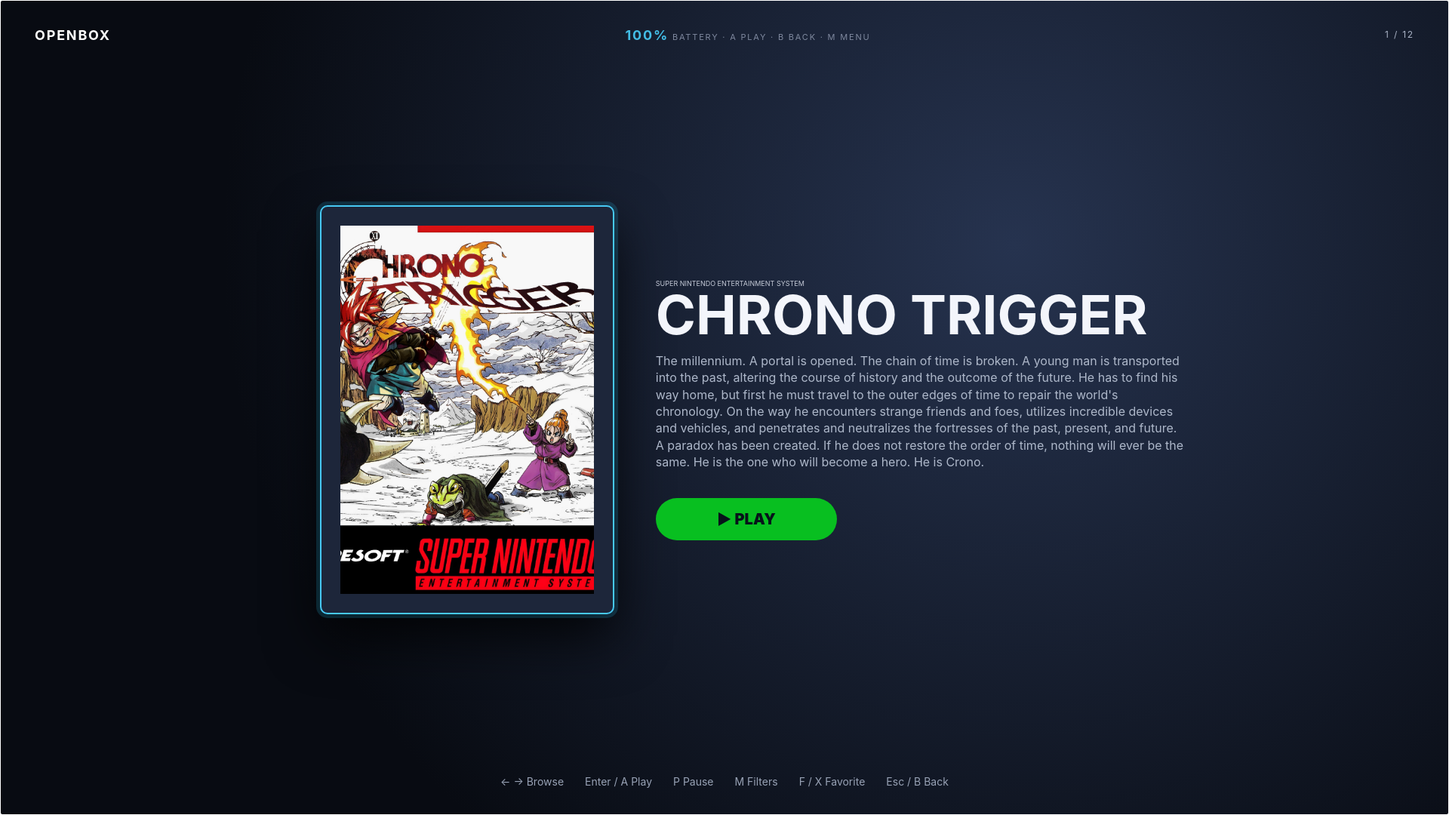
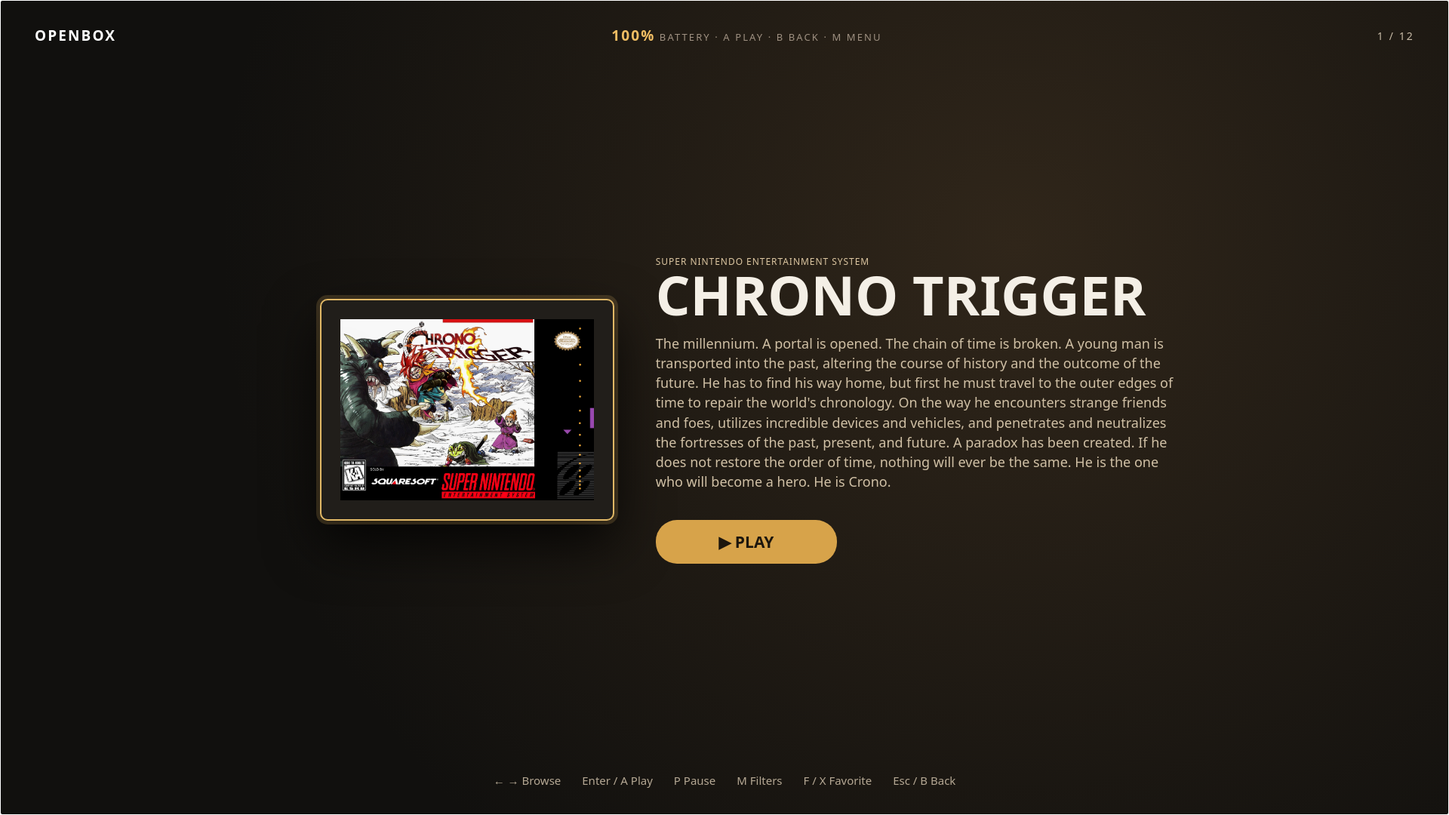
docs: match native window UI; refresh screenshots
- Replace stale screenshots with new native-window captures
  (library grid with grouped covers, game detail with full metadata,
  fullscreen Big Box)
- Reframe default-launch text from browser tab to native WebKitGTK
  window; document --web fallback and chrome-less app window ladder
- Remove Tk references (deleted in 1.0.0); themes now cover the shared
  UI; describe the three-zone topbar (Library / Actions / Tools)
- Update schema-version references to v5 and the v4->v5 ui_state
  migration; document native folder dialogs via the openboxNative bridge
- CLI/install/troubleshooting wording now covers both native and web
  entry points

diff --git a/content/docs/interfaces-and-data.md b/content/docs/interfaces-and-data.md
@@ -3,28 +3,32 @@ title: Interfaces and data
 description: Understand OpenBoxGL interfaces, local state, and environment selection.
 ---
 
-OpenBoxGL ships two interfaces that share one local library. This page explains what you see, how the pieces fit together, and exactly where your data lives so you can back it up, move it, or diagnose problems.
+OpenBoxGL ships one UI over two hosts that share one local library. This page explains what you see, how the pieces fit together, and exactly where your data lives so you can back it up, move it, or diagnose problems.
 
-## The two interfaces
+## One UI, two hosts
 
-| Interface | Entry point | What you see | Best for |
+| Host | Entry point | What you see | Best for |
 | --- | --- | --- | --- |
-| Web UI | `python3 web_app.py` or `openbox` | A chrome-less app window by default (falls back to your browser) with a three-column workspace: filter sidebar, cover grid or list, detail pane | Full feature set, REST API, Big Box mode |
-| Native UI | `python3 openbox.py` or `openbox-native` | A regular Tk desktop window with the same library | Lightweight desktop use |
+| Native window | `openbox` or `openbox-native` | A native WebKitGTK window rendering the same three-column workspace: filter sidebar, cover grid or list, detail pane | Default desktop use |
+| Web UI | `openbox --web` or `python3 web_app.py` | The same UI in a chrome-less app window (falls back to your browser) | Development, debugging, REST API, Big Box mode |
+
+Both hosts render the identical `index.html`, `app.js`, and `app.css` served by the loopback server, so there is no second presentation stack to drift. The native host is a small C shim that owns the window chrome and spawns the Python server as a child; it never contains application logic.
+
+### Native host
+
+Starting `openbox` (or `openbox-native`) does three things in order:
+
+1. Acquires a single-instance lock; a second launch focuses the existing window and exits.
+2. Spawns `web_app.py --no-browser` as a child and waits for it to write `server.port` and `server.token`.
+3. Opens a WebKitGTK window at `http://127.0.0.1:PORT/?token=...`, restores the last window geometry, and registers a `window.openboxNative` bridge for native dialogs, external opens, reveal, and window chrome.
+
+On window close the host shuts the server down cleanly. When WebKitGTK is missing, the launcher prints an install hint and falls back to the system-browser app window, so no install bricks.
 
 ### Web UI
 
-Starting the Web UI does three things in order:
+Running `python3 web_app.py` starts the loopback server directly and opens the same UI in a chrome-less app window (falling back to the default browser). Pass `--no-browser` to drive the API yourself.
 
-1. Bootstraps the environment and configures the diagnostic log in the data directory.
-2. Loads and normalizes the library state (running migrations if the schema is older), starts a `ThreadingHTTPServer` bound to `127.0.0.1` on a random port, and writes `server.port` and `server.token` into the data directory.
-3. Prints `http://127.0.0.1:PORT/?token=...` and opens it in your browser, unless `--no-browser` is passed.
-
-The server is loopback-only, so nothing is reachable from the network. The URL carries the per-launch token in the query string; the API also accepts the same value as an `X-OpenBox-Token` header. When the server stops, both files are deleted. A second instance therefore gets a fresh token and port, and the files are shared between interfaces: the keyboard launcher (`scripts/openbox-launcher.sh`) and `openbox://` deep links read these two files to find and authenticate against the running server. See [Command line and deep links](/reference/cli/) for the full flag and URI reference.
-
-### Native UI
-
-The Tk window opens the same `library.json` with the same grid, search, filters, and launch profiles, minus the browser surface. Both processes coordinate writes through a file lock, so running the Web UI and the native UI against the same library at the same time is safe; the last writer wins per transaction, not per file.
+The server is loopback-only, so nothing is reachable from the network. The URL carries the per-launch token in the query string; the API also accepts the same value as an `X-OpenBox-Token` header. When the server stops, both files are deleted. The keyboard launcher (`scripts/openbox-launcher.sh`) and `openbox://` deep links read these two files to find and authenticate against the running server. See [Command line and deep links](/reference/cli/) for the full flag and URI reference.
 
 ## Where data lives
 
@@ -35,8 +39,8 @@ The default data directory is `~/.local/share/openbox-game-launcher`. Everything
 | `library.json` | The library: games, profiles, history, settings, playlists, queue, notifications |
 | `library.json.bak` | Last-known-good copy, rewritten before every commit |
 | `.library.json.lock` | Cross-process lock file coordinating concurrent writes |
-| `server.token`, `server.port` | Per-launch credentials for the running Web UI; deleted on exit |
-| `openbox.log` (+ `.1`...`.4`) | Rotating diagnostic log with secrets redacted |
+| `server.token`, `server.port` | Per-launch credentials for the running app; deleted on exit |
+| `native-host.lock`, `window-geometry`, `native-host-flags` | Native host single-instance lock, last window geometry, and tray flags |
 | `backups/` | Library backup archives (`OpenBoxBackup-*.zip`) |
 | `save-backups/` | Versioned per-game save backups with retention limits |
 | `media/` | Downloaded artwork, screenshots, video, and metadata media, grouped by source |

diff --git a/content/docs/reference/cli.md b/content/docs/reference/cli.md
@@ -6,17 +6,17 @@ sidebar: false
 
 # Command line and deep links
 
-OpenBox is a local app, so the command line is a first-class surface. This page covers every flag the web UI entry point accepts and the `openbox://` URI scheme you can use to drive a running instance.
+OpenBox is a local app, so the command line is a first-class surface. This page covers every flag the app entry point accepts and the `openbox://` URI scheme you can use to drive a running instance.
 
 ## Entry points
 
 | Command | What it starts |
 | --- | --- |
-| `openbox` | The web UI (`python3 web_app.py` equivalent) |
-| `openbox-native` | The lightweight Tk interface (`python3 openbox.py`) |
-| `openbox --native` | The AppImage launches the Tk interface instead of the web UI |
+| `openbox` | The native window (default) |
+| `openbox-native` | The native window (the same host) |
+| `openbox --web` | The loopback web UI in a browser (development) |
 
-The web UI is the full-featured interface. Flags below apply to it unless noted.
+The native window renders the same UI as the web fallback; both serve `index.html` over the loopback server. Flags below apply to the app entry point unless noted.
 
 ## Flags
 
@@ -28,18 +28,18 @@ The web UI is the full-featured interface. Flags below apply to it unless noted.
 | `--launcher` | Open the rofi/wofi/dmenu keyboard launcher against the running instance and exit. |
 | `--backup [--items a,b] [--keep N]` | Create a library backup from the command line. Default items are `library,settings`. Prints the archive path. |
 | `--restore-backup <archive>` | Restore a backup archive. The archive must be a real `.zip` inside the data directory or `backups/`. Prints the restored item names. |
-| `--native` | AppImage only: launch the Tk interface instead of the web UI. |
+| `--web` | Start the loopback web UI in a browser instead of the native window (development). |
 
 `--backup` and `--restore-backup` act on the library before the server starts, so they work even when no instance is running. They read `OPENBOX_DATA_DIR` from the environment, like every startup path.
 
 ## Deep links
 
-`openbox://` URIs address a running OpenBox web UI. The parser rejects foreign hosts and fails cleanly when no server port is known, so a dead link never silently hits the wrong process.
+`openbox://` URIs address a running OpenBox instance. The parser rejects foreign hosts and fails cleanly when no server port is known, so a dead link never silently hits the wrong process.
 
 | URI | Action |
 | --- | --- |
 | `openbox://start` | Open the running UI in the browser. A no-op if the server is already up. |
-| `openbox://search/<query>` | Open the web UI with the search field prefilled for `<query>`. |
+| `openbox://search/<query>` | Open the UI with the search field prefilled for `<query>`. |
 | `openbox://showgame/<id>` (alias `game`) | Open the detail pane for a game by stable id. |
 | `openbox://launch/<id>` | Launch a game by stable id. |
 | `openbox://bigbox` (alias `fullscreen`) | Switch the running UI to Big Box mode. |
@@ -52,7 +52,7 @@ openbox --uri "openbox://search/chrono"
 openbox --uri "openbox://launch/1234"
 ```
 
-`--uri` dispatches against the running server using the token and port files, or boots a server if none is running. The same actions exist as `?deeplink=` query parameters on the web UI URL (`?deeplink=bigbox`, `?deeplink=search&q=chrono`).
+`--uri` dispatches against the running server using the token and port files, or boots a server if none is running. The same actions exist as `?deeplink=` query parameters on the UI URL (`?deeplink=bigbox`, `?deeplink=search&q=chrono`).
 
 ## Keyboard launcher
 
@@ -66,7 +66,7 @@ openbox --launcher
 scripts/openbox-launcher.sh rofi
 ```
 
-The launcher reads `server.port` and `server.token` from the data directory, so it only works while the web UI is running. Bind a hotkey to `openbox --launcher` for a launch-anything menu.
+The launcher reads `server.port` and `server.token` from the data directory, so it only works while OpenBox is running. Bind a hotkey to `openbox --launcher` for a launch-anything menu.
 
 ## Related pages
 

diff --git a/content/docs/guides/troubleshooting/startup-and-browser/index.md b/content/docs/guides/troubleshooting/startup-and-browser/index.md
@@ -1,16 +1,17 @@
 ---
-title: Troubleshooting startup and browser
-description: Diagnose why the app does not start or the browser does not open.
+title: Troubleshooting startup and window
+description: Diagnose why the app does not start or the window does not open.
 ---
 
 Start with the diagnostic log and the exact visible error. **Settings** has **Copy diagnostic log**: it copies the rotating log (`<data-dir>/openbox.log`, 2 MiB per file, 4 rotations) which redacts tokens, passwords, secrets, API keys, and authorization values, but may include game names and local file paths. Review it before sharing.
 
-## The browser did not open
+## The window did not open
 
-The Web UI binds to `127.0.0.1` on a random port. The port and token are written to `<data-dir>/server.port` and `<data-dir>/server.token`; the URL is printed to the terminal. If the browser shows "Could not reach the OpenBox server", check that `web_app.py` is still running.
+The native window renders the same UI as the web UI; both are served by the loopback server on `127.0.0.1` at a random port. The port and token are written to `<data-dir>/server.port` and `<data-dir>/server.token`. If the native window shows "Could not reach the OpenBox server", the server child did not start or exited; run `openbox` from a terminal to read the error.
 
-- Run the entry point from a terminal and open the printed URL yourself: `http://127.0.0.1:PORT/?token=...`
-- `--no-browser` skips opening a browser; useful for remote or scripted starts.
+- When WebKitGTK is missing, `openbox` prints an install hint and falls back to a chrome-less app window (then your default browser). Install `libwebkit2gtk-4.1-dev` (Debian/Ubuntu) or `webkit2gtk-4.1` (Fedora) for the native window.
+- `openbox --web` forces the loopback web UI in a browser instead of the native window.
+- `python3 web_app.py --no-browser` starts the server without opening any window; open the printed `http://127.0.0.1:PORT/?token=...` URL yourself.
 
 ## Nothing starts at all
 
@@ -21,7 +22,7 @@ The Web UI binds to `127.0.0.1` on a random port. The port and token are written
 | Flatpak fails to find files | The Flatpak uses the FreeDesktop runtime and grants `--filesystem=home`; keep Steam/Heroic/Lutris/ROM folders under home. |
 | Kiosk browser not opening in Game Mode | The UI opens in a kiosk browser (Chromium, Chrome, Brave, Edge; native or Flatpak). If none is installed the fallback may fail; install one. Prefer the AppImage in Game Mode since the Flatpak relies on host tools for window tagging. |
 
-## Browser opens but the library looks empty
+## Window opens but the library looks empty
 
 Check `OPENBOX_DATA_DIR`. The server is reading a different directory than the one you edited. The variable must be in the process environment at launch — putting it inside a discovered `.env` file is too late.
 

diff --git a/content/docs/guides/library/index.md b/content/docs/guides/library/index.md
@@ -3,7 +3,7 @@ title: Library overview
 description: Browse, search, and safely maintain a mixed Linux game library.
 ---
 
-OpenBoxGL presents imported games in a searchable grid or list. Select a card to open its detail pane, where metadata, artwork, launch, saves, and history stay together. The Web UI keeps one top bar of actions: **Library**, **Add Game**, **Import Folder**, **Import Steam**, **Import Heroic**, **Import Lutris**, **Import Arcade**, **Emulators**, **Settings**, **Big Box**, **Running**, **History**, **Themes**, **Save Filter**, **Save Preset**, **Playlists**, **Achievements**, **Plugins**, **Discovery**, **Storefronts**, **Media**, **Health**, **Bulk Edit**, **Backup**, **Fullscreen**, **Queue**, **Tags**, **Notifications**, and **Webhooks**.
+OpenBoxGL presents imported games in a searchable grid or list. Select a card to open its detail pane, where metadata, artwork, launch, saves, and history stay together. The top bar is grouped into three zones. The **Library** zone holds **Library**, **Add Game**, and **Import Folder**. The **Actions** zone holds **Big Box**, **Running**, and **Queue**. The **Tools** menu holds the rest: **Import Steam**, **Import Heroic**, **Import Lutris**, **Import Arcade**, **Emulators**, **Settings**, **History**, **Themes**, **Save Filter**, **Save Preset**, **Playlists**, **Achievements**, **Plugins**, **Discovery**, **Storefronts**, **Media**, **Health**, **Bulk Edit**, **Backup**, **Fullscreen**, **Tags**, **Notifications**, and **Webhooks**.
 
 <Callout type="tip" title="Why the library never gets broken by reordering">
 
@@ -47,4 +47,4 @@ Removing a game asks twice: first to confirm the library entry removal, then whe
 
 ## Source and status
 
-Capability status belongs to the [parity matrix](/reference/parity/), maintained from `PARITY.md`. Library data lives in `~/.local/share/openbox-game-launcher/library.json` unless `OPENBOX_DATA_DIR` points elsewhere. State is schema version 4, written atomically with a `.bak` last-known-good copy beside it; recovery is covered in [Data and recovery](/reference/data-and-recovery/).
+Capability status belongs to the [parity matrix](/reference/parity/), maintained from `PARITY.md`. Library data lives in `~/.local/share/openbox-game-launcher/library.json` unless `OPENBOX_DATA_DIR` points elsewhere. State is schema version 5, written atomically with a `.bak` last-known-good copy beside it; recovery is covered in [Data and recovery](/reference/data-and-recovery/).

diff --git a/content/docs/guides/troubleshooting/index.md b/content/docs/guides/troubleshooting/index.md
@@ -7,7 +7,7 @@ Start with the diagnostic log and the exact visible error. **Settings** has **Co
 
 ## Startup and browser issues
 
-- The Web UI binds to `127.0.0.1` on a random port. The port and token are written to `<data-dir>/server.port` and `<data-dir>/server.token`; the URL is printed to the terminal. If the browser shows "Could not reach the OpenBox server", check that `web_app.py` is still running.
+- The server binds to `127.0.0.1` on a random port. The port and token are written to `<data-dir>/server.port` and `<data-dir>/server.token`; the URL is printed to the terminal. If the window shows "Could not reach the OpenBox server", check that the server process is still running. In `--web` mode, the same message in the browser has the same cause.
 - `--no-browser` skips opening a browser; useful for remote or scripted starts. `OPENBOX_DATA_DIR` must be set before launch to change the data directory.
 - On Steam Deck / Bazzite Game Mode, the UI opens in a kiosk browser (Chromium, Chrome, Brave, Edge; native or Flatpak). If no kiosk browser is installed the fallback may fail; install one of them. Prefer the AppImage build in Game Mode, since the Flatpak build relies on host tools for window tagging.
 - If an older AppImage build opened but never showed a window after desktop integration, install v0.6.0 or newer, remove the old menu entry, and re-add the AppImage.
@@ -34,7 +34,7 @@ Start with the diagnostic log and the exact visible error. **Settings** has **Co
 
 ## State recovery
 
-- Library state is `library.json` (schema version 4) with a `.bak` last-known-good copy and a `.lock` file beside it. Writes are atomic and owner-only.
+- Library state is `library.json` (schema version 5) with a `.bak` last-known-good copy and a `.lock` file beside it. Writes are atomic and owner-only.
 - If the primary file cannot be read, operations return 503 with "OpenBox library data needs recovery"; the original file is preserved, never overwritten. Recovery loads the `.bak` file, normalizes it, and writes it back. If the backup is also unusable, recovery fails with a clear error.
 - Back up the data directory before manual intervention: copy `library.json` and `library.json.bak` together.
 - Stable game IDs (`game-<hex>`) survive reordering; legacy index-suffixed IDs are kept as aliases (`legacy_game_ids`).

diff --git a/content/docs/guides/library/organizing/index.md b/content/docs/guides/library/organizing/index.md
@@ -25,7 +25,7 @@ Open the **Playlists** dialog for **New manual playlist** and **New filter playl
 
 The **Edit metadata** dialog covers name, platform, genre, year, developer, publisher, series, region, play mode, sort title, progress, ESRB, rating (0 to 5, step 0.5), max players, Wikipedia and video URLs, alternate names, video snap/theme/trailer/recording paths, game path, cover/background/video/music paths, controller support, disc count, extended artwork (clear logo, fanart, banner, icon, box back, box spine, 3D box, title screen), screenshots, RetroAchievements Game ID, launch command override, launch profile override, archive extraction, Big Box hide, hidden, broken, portable, archive member, applications, alternate versions, documents, save paths, description, and private notes.
 
-`collection` is a separate grouping field populated by imports (Steam, Heroic, Lutris, Gameyfin, Arcade, Xbox 360) and shown and filtered in the native Tk UI. It feeds the **Related Games** scorer (two games with the same `collection` score higher). The Web UI does not currently expose an editable `collection` control or a `collection:` search term, so its value is set by imports and surfaced through related-game reasons rather than by hand in the browser.
+`collection` is a separate grouping field populated by imports (Steam, Heroic, Lutris, Gameyfin, Arcade, Xbox 360) and shown and filtered in the native window. It feeds the **Related Games** scorer (two games with the same `collection` score higher). The UI does not currently expose an editable `collection` control or a `collection:` search term, so its value is set by imports and surfaced through related-game reasons rather than by hand.
 
 Custom fields are defined in Settings as `Name|Option1,Option2` lines (up to 20 fields, 50 options each). They appear as editable values on each game and can be bulk-applied.
 

diff --git a/content/docs/reference/data-and-recovery.md b/content/docs/reference/data-and-recovery.md
@@ -1,6 +1,6 @@
 ---
 title: Data and recovery
-description: Understand schema version 4 state files and recovery behavior.
+description: Understand schema version 5 state files and recovery behavior.
 ---
 
 The library is one schema-versioned JSON file with a last-known-good sidecar, cross-process locking, and atomic owner-only writes. This page documents the exact layout, the migration path, stable IDs, caps, and recovery.
@@ -30,15 +30,16 @@ Every read and write happens under the file lock, so two OpenBoxGL processes (We
 
 ## Schema versions and migration
 
-The current schema is version 4 (`STATE_SCHEMA_VERSION`). Older files migrate in place on load:
+The current schema is version 5 (`STATE_SCHEMA_VERSION`). Older files migrate in place on load:
 
 | From | Migration |
 | --- | --- |
 | v1 (bare game list) | Wrapped into a state object, gains `profiles`, `history`, `settings`, `playlists` |
 | v2 | Index-suffixed IDs (`game-<24 hex>-<n>`) are replaced by stable IDs; the old ID moves into `legacy_game_ids` as an alias |
 | v3 | Gains `queue` and `notifications`, capped at 500 and 200 entries; non-list game `tags` become `[]` |
+| v4 | Gains the host-owned `ui_state` block (window geometry and native-host preferences); games, settings, playlists, and history are unchanged |
 
-Unknown fields survive migration; only known collections are normalized. A schema version above 4, below 1, or with no migration available raises `StateCorruptError` instead of guessing. A complete v4 object takes a fast path without normalization.
+Unknown fields survive migration; only known collections are normalized. A schema version above 5, below 1, or with no migration available raises `StateCorruptError` instead of guessing. A complete v5 object takes a fast path without normalization.
 
 ## Stable game IDs
 

diff --git a/content/docs/changelog.md b/content/docs/changelog.md
@@ -6,9 +6,17 @@ sidebar: false
 
 # Changelog
 
-OpenBox follows [Keep a Changelog](https://keepachangelog.com/en/1.1.0/) and [Semantic Versioning](https://semver.org/spec/v2.0.0.html). The full file lives in the repository at [`CHANGELOG.md`](https://github.com/vindeckyy/OpenBoxGL/blob/master/CHANGELOG.md). These are the highlights.
+## 1.0.0 (2026-08-13)
+
+**Native-first**
+
+- OpenBox now opens in a native WebKitGTK window by default, rendering the same library UI as the web app instead of a browser tab or the removed Tk interface. The native host owns server lifecycle, single instance, window geometry, minimize-to-tray, and a fallback to the system-browser app window when WebKitGTK is missing.
+- Batch metadata auto-match binds every unmatched game whose title exactly matches the LaunchBox Games Database in one action, instead of matching one game at a time. Only exact normalized-title hits qualify; ambiguous titles are left unmatched.
+- The topbar regroups into Library, Actions, and Tools zones; session and job events stream over Server-Sent Events with polling kept as a fallback.
+- The `ui_window` app/browser split is removed; native is the default and `--web`/`--app-window` remain for contributors.
 
 ## 0.9.0 (2026-08-12)
+
 
 **LaunchBox media catalog and archive manuals**
 

diff --git a/content/docs/guides/troubleshooting/state-recovery/index.md b/content/docs/guides/troubleshooting/state-recovery/index.md
@@ -7,7 +7,7 @@ OpenBoxGL writes library state atomically with a last-known-good backup, so a cr
 
 ## How to read the state
 
-- The library is `library.json` (schema version 4) with a `.bak` last-known-good copy and a `.lock` file beside it. Writes are atomic and owner-only.
+- The library is `library.json` (schema version 5) with a `.bak` last-known-good copy and a `.lock` file beside it. Writes are atomic and owner-only.
 - Stable game IDs (`game-<hex>`) survive reordering; legacy index-suffixed IDs are kept as aliases (`legacy_game_ids`).
 
 ## When recovery is needed
@@ -32,7 +32,7 @@ Recovery (`POST /api/state/recover`) loads the `.bak` file, normalizes it, and w
 ## Preventing data loss
 
 - Back up the whole data directory before manual intervention: copy `library.json` and `library.json.bak` together.
-- Schema versions migrate in place on load (v1 → v4); a version above 4, below 1, or with no migration available raises `StateCorruptError` instead of guessing.
+- Schema versions migrate in place on load (v1 → v5); a version above 5, below 1, or with no migration available raises `StateCorruptError` instead of guessing.
 - The `.bak` is always at least as fresh as the primary commit that preceded the last write, because it is written before the swap.
 
 ## See also

diff --git a/content/docs/updating.md b/content/docs/updating.md
@@ -5,6 +5,12 @@ description: Update AppImage installations and understand package boundaries.
 
 OpenBoxGL has one built-in updater and it is for the AppImage only. This page explains what it verifies, what happens during an update, what can go wrong, and how the other installation types update instead.
 
+## Upgrading to 1.0.0
+
+Version 1.0.0 removes the Tk interface and opens a native WebKitGTK window by default. Your library data is untouched: the same `library.json` in `~/.local/share/openbox-game-launcher` (or `OPENBOX_DATA_DIR`) keeps working, and the schema migrates to version 5 automatically on first launch (it only adds a host-owned `ui_state` block; games, settings, playlists, and history are unchanged). No re-import or re-download is needed.
+
+The one behavioral change to expect is the window itself: instead of a browser tab, `openbox` opens the native window. `openbox --web` still opens the loopback web UI in a browser for development, and if WebKitGTK is missing the launcher falls back to a chrome-less app window rather than failing.
+
 ## Which installs get the built-in updater
 
 | Installation | Updater | How to update |

diff --git a/content/docs/roadmap.md b/content/docs/roadmap.md
@@ -10,7 +10,7 @@ OpenBox is maintained by one person in the open, so the roadmap is short and hon
 
 ## In the current release
 
-The [changelog](/changelog/) is the accurate record. The headline pieces in 0.9.0 are the engineering foundation: a verification gate that runs lint, compile, tests, and coverage on every push, a route registry with structured API errors and request ids, gzip-served libraries that load 96% smaller, rolling state snapshots, and the full LaunchBox media catalog (box backs, spines, 3D boxes, logos, fanart, banners, screens, carts, discs, and ads). The desktop UI opens chrome-less by default, and releases ship with SBOM and signing tooling.
+The [changelog](/changelog/) is the accurate record. The headline pieces in 1.0.0 are the native-first release: a native WebKitGTK window that renders the same UI as the web app (no browser tab, no separate Tk interface), batch LaunchBox metadata auto-match, and Server-Sent Events for session and job updates. The desktop UI opens in the native window by default, and releases ship with SBOM and signing tooling.
 
 ## In progress
 

diff --git a/content/docs/reference/configuration.md b/content/docs/reference/configuration.md
@@ -117,7 +117,6 @@ The Settings dialog saves into `library.json` under `settings`. The save handler
 | `gameyfin_install_dir` | "" | Absolute path; created if missing, rejected if symlink or non-existent. Empty by default; the UI shows a `~/Games/Gameyfin` placeholder |
 | `gameyfin_provider` | "" | Provider label; falls back to first available |
 | `ludusavi_backup_path` | "" | Optional absolute path for Ludusavi JSON output |
-| `ui_window` | "app" | One of app, browser — whether the UI opens chrome-less or in a browser tab; overridden by `--app-window` / `--no-app-window` |
 
 Two naming details worth knowing:
 
